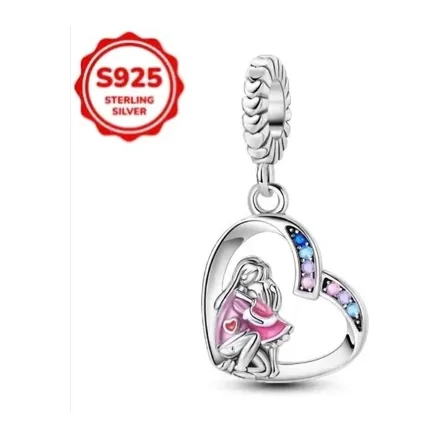
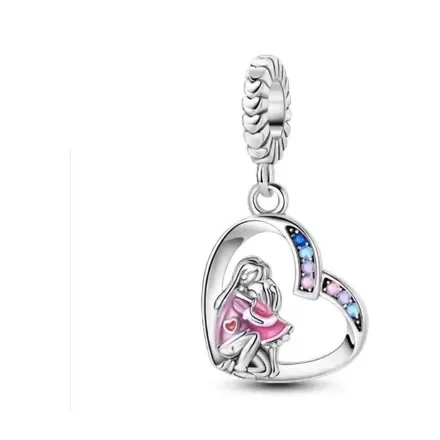
Borrar el sello del proveedor de las ocho fotos donde no toca la pieza
Quedaban once fotos con el sello rojo, no las ~30 que se venia diciendo: la
tanda del 20 se llevo el resto al cambiar 39 fotos. De esas once, ocho lo
tienen sobre fondo liso y lejos de la pieza, asi que se borra rellenando cada
fila con el fondo de esa misma fila. No cuesta un pixel de resolucion, que es
lo que costaba la otra via.

Donde estaba el riesgo era en confundir el sello con una pieza roja. Deadpool,
Iron Man, el moño de Minnie y la manzana de Blancanieves son rojos de verdad,
y pintarlos encima habria sido peor que el sello. Lo que los separa no es el
color sino que el sello es una isla suelta, rodeada de fondo; el rojo del
producto siempre cuelga del cuerpo plateado.

Con eso solo no bastaba. En el creativo con la mano de la modelo, que no es
producto sobre blanco, se colo como sello una franja de piel de 21x127 px y
el borrado la habria destrozado. Se descarta por forma: el sello es una
insignia redonda, y un rojo seis veces mas alto que ancho no lo es.

Quedan dos que no se pueden retocar porque el sello se superpone a la pieza y
no hay fondo que copiar. Van a la lista de las que necesitan foto nueva.

Claude-Session: https://claude.ai/code/session_01VSSPYbyepNN7cMwAcyBYuh

Changed region(s): [[0.1477, 0.0591, 0.4432, 0.325]]

diff --git a/herramientas/quitar_sello.py b/herramientas/quitar_sello.py
@@ -1,0 +1,208 @@
+#!/usr/bin/env python3
+"""Borra el sello del proveedor de las fotos donde no toque la pieza.
+
+    python3 herramientas/quitar_sello.py            # informa, no escribe
+    python3 herramientas/quitar_sello.py --aplicar
+
+Media carpeta son capturas de fichas de proveedor, y ~30 llevan encima un sello
+rojo «S925 / Real Sterling Silver» que la tienda no puso. Una no se nota;
+treinta en la misma rejilla dicen bastante fuerte que las fotos no son de la
+tienda.
+
+Cambiar esas fotos por otras limpias sale caro: cuando la que llega es más
+pequeña, quitar el sello cuesta resolución, y ese cambio ya se revirtió una vez
+(el osito, 225 px estirados a 440). Borrar el sello de la foto buena no cuesta
+nada — **cuando el sello no se superpone a la pieza**, que es lo que este script
+comprueba antes de tocar nada.
+
+**Cómo distingue el sello de una pieza roja.** Por rojo no vale: Deadpool, Iron
+Man, el moño de Minnie y la manzana de Blancanieves son rojos de verdad, y
+pintarlos encima sería mucho peor que el sello. Lo que separa al sello es que es
+una **isla**: un trozo suelto, rodeado de fondo por todos lados, sin contacto con
+el cuerpo de la pieza. El rojo del producto siempre cuelga del cuerpo plateado.
+Así que se buscan las partes conexas de la imagen, se toma la mayor como la
+pieza, y solo se consideran sello las islas separadas y con tinte rojo.
+
+Donde el sello sí pisa la pieza no se toca y se informa: ahí hace falta una foto
+nueva, no un retoque.
+"""
+import pathlib
+import sys
+
+from PIL import Image
+
+RAIZ = pathlib.Path(__file__).resolve().parent.parent
+ASSETS = RAIZ / "assets"
+SALIDA = pathlib.Path(__file__).resolve().parent / "salida"
+
+ESCALA = 220        # las partes conexas se buscan aquí; el relleno va a resolución real
+MARGEN = 5          # píxeles de aire alrededor del sello al rellenar
+MIN_ISLA = 25       # más pequeño que esto es ruido de compresión
+MAX_ISLA = 0.09     # una isla mayor que el 9% del cuadro no es un sello
+FORMA = (0.45, 2.2)  # el sello es una insignia redonda: ancho/alto cerca de 1
+
+
+def _fondo(im):
+    W, H = im.size
+    k = max(2, min(W, H) // 20)
+    px = b"".join(e.tobytes() for e in (
+        im.crop((0, 0, k, k)), im.crop((W - k, 0, W, k)),
+        im.crop((0, H - k, k, H)), im.crop((W - k, H - k, W, H))))
+    return tuple(sum(px[i::3]) // (len(px) // 3) for i in range(3))
+
+
+def _islas(im):
+    """Devuelve (partes, lado). Cada parte: lista de índices que la forman."""
+    ch = im.convert("RGB").resize((ESCALA, ESCALA), Image.LANCZOS)
+    bg = _fondo(ch)
+    d = ch.tobytes()
+    n = ESCALA * ESCALA
+    m = [(d[i * 3] - bg[0]) ** 2 + (d[i * 3 + 1] - bg[1]) ** 2
+         + (d[i * 3 + 2] - bg[2]) ** 2 > 700 for i in range(n)]
+
+    padre = list(range(n))
+
+    def raiz(a):
+        while padre[a] != a:
+            padre[a] = padre[padre[a]]
+            a = padre[a]
+        return a
+
+    for y in range(ESCALA):
+        for x in range(ESCALA):
+            i = y * ESCALA + x
+            if not m[i]:
+                continue
+            # 8-conectividad: el borde punteado del sello se parte con 4
+            for dx, dy in ((-1, 0), (0, -1), (-1, -1), (1, -1)):
+                nx, ny = x + dx, y + dy
+                if 0 <= nx < ESCALA and 0 <= ny < ESCALA:
+                    j = ny * ESCALA + nx
+                    if m[j]:
+                        ra, rb = raiz(i), raiz(j)
+                        if ra != rb:
+                            padre[ra] = rb
+
+    partes = {}
+    for i in range(n):
+        if m[i]:
+            partes.setdefault(raiz(i), []).append(i)
+    return partes, d
+
+
+def busca_sello(ruta):
+    """(caja del sello en píxeles del original, motivo) — caja None si no hay."""
+    im = Image.open(ruta).convert("RGB")
+    W, H = im.size
+    partes, d = _islas(im)
+    if not partes:
+        return None, "sin sujeto"
+
+    pieza = max(partes.values(), key=len)
+    candidatas = []
+    for ids in partes.values():
+        if ids is pieza or not (MIN_ISLA <= len(ids) <= MAX_ISLA * ESCALA * ESCALA):
+            continue
+        # ¿tiene tinte rojo? el sello es un rojo apagado, no gris
+        rojo = sum(1 for i in ids if d[i * 3] - d[i * 3 + 1] > 8
+                   and d[i * 3] - d[i * 3 + 2] > 8)
+        if rojo < len(ids) * 0.30:
+            continue
+        # El sello es una insignia redonda. Sin esta guarda, en las fotos que
+        # no son producto-sobre-blanco —el creativo con la mano de la modelo—
+        # se colaba como "sello" una franja de piel de 21x127 px, y borrarla
+        # habría destrozado la foto. Un rojo alargado no es un sello.
+        xs = [i % ESCALA for i in ids]
+        ys = [i // ESCALA for i in ids]
+        forma = (max(xs) - min(xs) + 1) / (max(ys) - min(ys) + 1)
+        if not (FORMA[0] <= forma <= FORMA[1]):
+            continue
+        candidatas.append(ids)
+
+    if not candidatas:
+        return None, "no lleva sello suelto"
+
+    ids = max(candidatas, key=len)
+    xs = [i % ESCALA for i in ids]
+    ys = [i // ESCALA for i in ids]
+    caja = (int(min(xs) / ESCALA * W), int(min(ys) / ESCALA * H),
+            int(max(xs) / ESCALA * W) + 1, int(max(ys) / ESCALA * H) + 1)
+
+    # ¿la caja se come parte de la pieza? Se mide en la escala de trabajo.
+    sx0, sy0 = min(xs) - 2, min(ys) - 2
+    sx1, sy1 = max(xs) + 2, max(ys) + 2
+    dentro = sum(1 for i in pieza
+                 if sx0 <= i % ESCALA <= sx1 and sy0 <= i // ESCALA <= sy1)
+    if dentro > 6:
+        return None, f"el sello pisa la pieza ({dentro} px) — hace falta foto nueva"
+    return caja, "limpiable"
+
+
+def limpia(ruta, caja, destino):
+    """Rellena la caja tomando, en cada fila, el fondo de esa misma fila."""
+    im = Image.open(ruta).convert("RGB")
+    W, H = im.size
+    d = im.load()
+    x0 = max(0, caja[0] - MARGEN)
+    y0 = max(0, caja[1] - MARGEN)
+    x1 = min(W - 1, caja[2] + MARGEN)
+    y1 = min(H - 1, caja[3] + MARGEN)
+    for y in range(y0, y1 + 1):
+        ref = ([d[x, y] for x in range(max(0, x0 - 16), x0)]
+               + [d[x, y] for x in range(x1 + 1, min(W, x1 + 17))])
+        if not ref:
+            continue
+        c = tuple(sorted(v[i] for v in ref)[len(ref) // 2] for i in range(3))
+        for x in range(x0, x1 + 1):
+            d[x, y] = c
+    im.save(destino, "webp", quality=86, method=6)
+    return (x0, y0, x1, y1)
+
+
+def main():
+    aplicar = "--aplicar" in sys.argv
+    SALIDA.mkdir(exist_ok=True)
+    limpiables, pisan, limpias = [], [], 0
+
+    for p in sorted(ASSETS.glob("*.webp")):
+        caja, motivo = busca_sello(p)
+        if caja:
+            limpiables.append((p, caja))
+        elif "pisa" in motivo:
+            pisan.append((p, motivo))
+        else:
+            limpias += 1
+
+    print(f"{len(list(ASSETS.glob('*.webp')))} fotos · "
+          f"{len(limpiables)} con sello borrable · {len(pisan)} con sello sobre la pieza · "
+          f"{limpias} sin isla de sello\n")
+    print("  («sin isla de sello» no es «limpia»: si el sello toca la pieza no\n"
+          "   forma isla y cae aquí. Ese caso necesita foto nueva, no retoque.)\n")
+
+    antes = []
+    for p, caja in limpiables:
+        antes.append(Image.open(p).convert("RGB").resize((300, 300), Image.LANCZOS))
+        destino = (p if aplicar else SALIDA / p.name)
+        real = limpia(p, caja, destino)
+        print(f"  {p.stem:<36} sello en {caja}  relleno {real}")
+
+    if pisan:
+        print("\nNo se tocan — el sello se superpone a la pieza:")
+        for p, motivo in pisan:
+            print(f"  {p.stem:<36} {motivo}")
+
+    if antes:
+        hoja = Image.new("RGB", (600, len(antes) * 310), (250, 250, 252))
+        for i, (p, _) in enumerate(limpiables):
+            hoja.paste(antes[i], (0, i * 310))
+            fin = Image.open(p if aplicar else SALIDA / p.name).convert("RGB")
+            hoja.paste(fin.resize((300, 300), Image.LANCZOS), (300, i * 310))
+        hoja.save(SALIDA / "sellos.png")
+        print(f"\nAntes/después: {SALIDA / 'sellos.png'}")
+
+    if not aplicar:
+        print("\nNo se tocó assets/. Repite con --aplicar cuando se vea bien.")
+
+
+if __name__ == "__main__":
+    main()

diff --git a/ESTADO.md b/ESTADO.md
@@ -197,6 +197,23 @@ El guantelete además gana segunda vista (`guantelete-del-infinito-2.webp`,
 registrada en `FOTOS`): el collage que se retiró mostraba frente y dorso, y
 perder el dorso habría sido perder información que el catálogo ya daba.
 
+> **Cómo distingue el sello de una pieza roja**, que es donde estaba el riesgo:
+> no por el color. Deadpool, Iron Man, el moño de Minnie y la manzana de
+> Blancanieves son rojos de verdad, y pintarlos encima habría sido mucho peor
+> que el sello. Lo que separa al sello es que es una **isla**: un trozo suelto
+> rodeado de fondo, sin contacto con el cuerpo de la pieza. El rojo del producto
+> siempre cuelga del cuerpo plateado.
+>
+> Hizo falta una segunda guarda. En el creativo de marketing con la mano de la
+> modelo —`pulsera-zephora-armada-con-charms-en-plata-925`, que no es
+> producto-sobre-blanco— se coló como «sello» una franja de piel de 21×127 px, y
+> borrarla habría destrozado la foto. Se descarta por forma: el sello es una
+> insignia redonda, y un rojo seis veces más alto que ancho no lo es.
+>
+> Y una advertencia de lectura: en el informe, **«sin isla de sello» no
+> significa «limpia»**. Si el sello toca la pieza no forma isla y cae en ese
+> montón. Por eso el recuento de los que sí lo tocan va aparte.
+
 > **El sello se puede borrar sin cambiar la foto, cuando no toca la pieza.** Se
 > hizo con `pulsera-copo-de-nieve`: el reemplazo que llegó venía a 225×225 —183
 > px de pulsera contra los 349 de la que había—, así que en vez de cambiarla se
@@ -214,9 +231,15 @@ perder el dorso habría sido perder información que el catálogo ya daba.
 - `atrapasuenos-azul` — la que llegó viene a 158×318 y la actual tiene la pieza
   a 386×329. Quitarle el «8/9» costaría nitidez, que es exactamente el cambio
   que se revirtió con el osito. Se queda hasta que aparezca una grande.
-- El **sello S925 sigue en ~30 fotos**. Una no se nota; treinta en la misma
-  rejilla dicen bastante fuerte que las fotos no son de la tienda. Es la
-  decisión grande que queda abierta.
+- El **sello del proveedor: resuelto en 9 de 11**. `herramientas/quitar_sello.py`
+  hizo el barrido: quedaban 11 fotos con sello (no ~30 — la tanda del 20 se
+  llevó el resto al cambiar 39 fotos). Ocho se limpiaron sin tocar la pieza,
+  más `pulsera-copo-de-nieve` que se hizo antes a mano. **Quedan dos**, y
+  necesitan foto nueva porque el sello se superpone a la pieza y no hay nada
+  que rellenar: `osito-con-rosa-y-corazon` (215 px de solape) y
+  `pulsera-sol-con-cadena-seguridad` (36 px). Una tercera,
+  `escudo-capitan-america`, tiene el sello pegado al segundo charm, pero esa ya
+  estaba en la lista por el logo de Disney.
 - La foto que se ve **al compartir el sitio** por WhatsApp o Facebook
   (`og:image`) es `pulsera-armada-con-muranos-camaleon-verde-y-atrapa.jpg`:
   800×600, luz de casa, fondo de sala. Es la primera impresión en cada enlace
